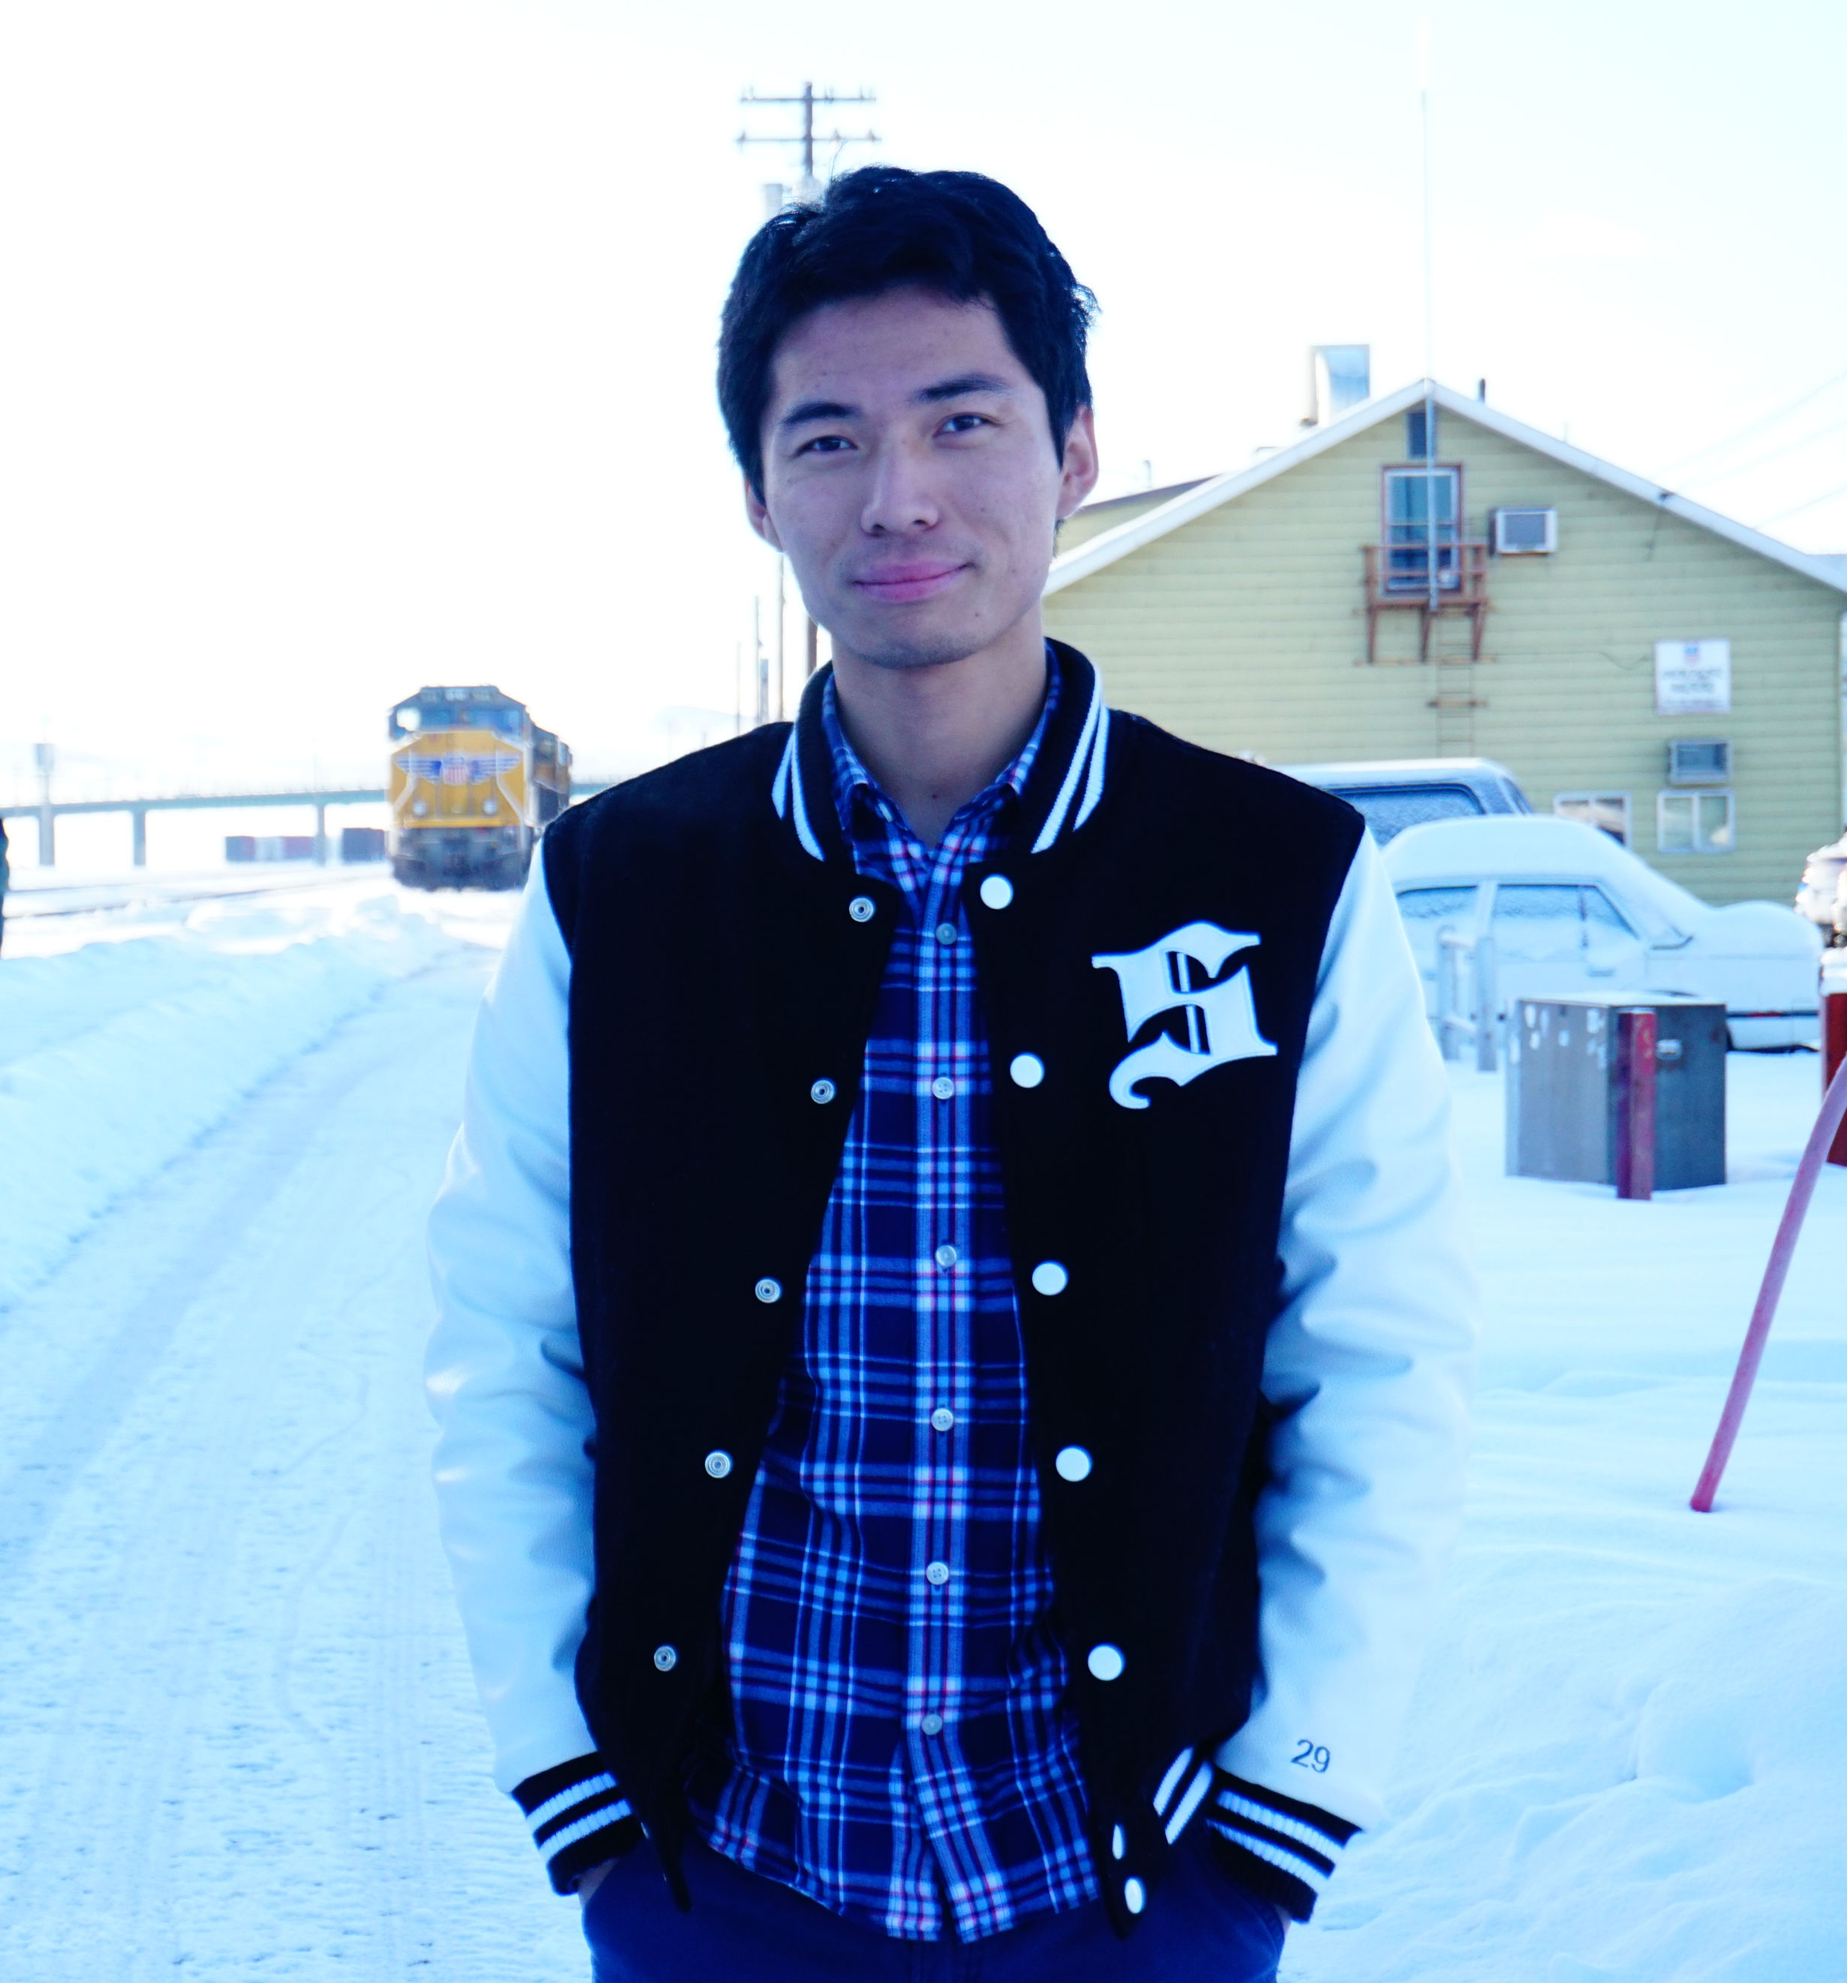
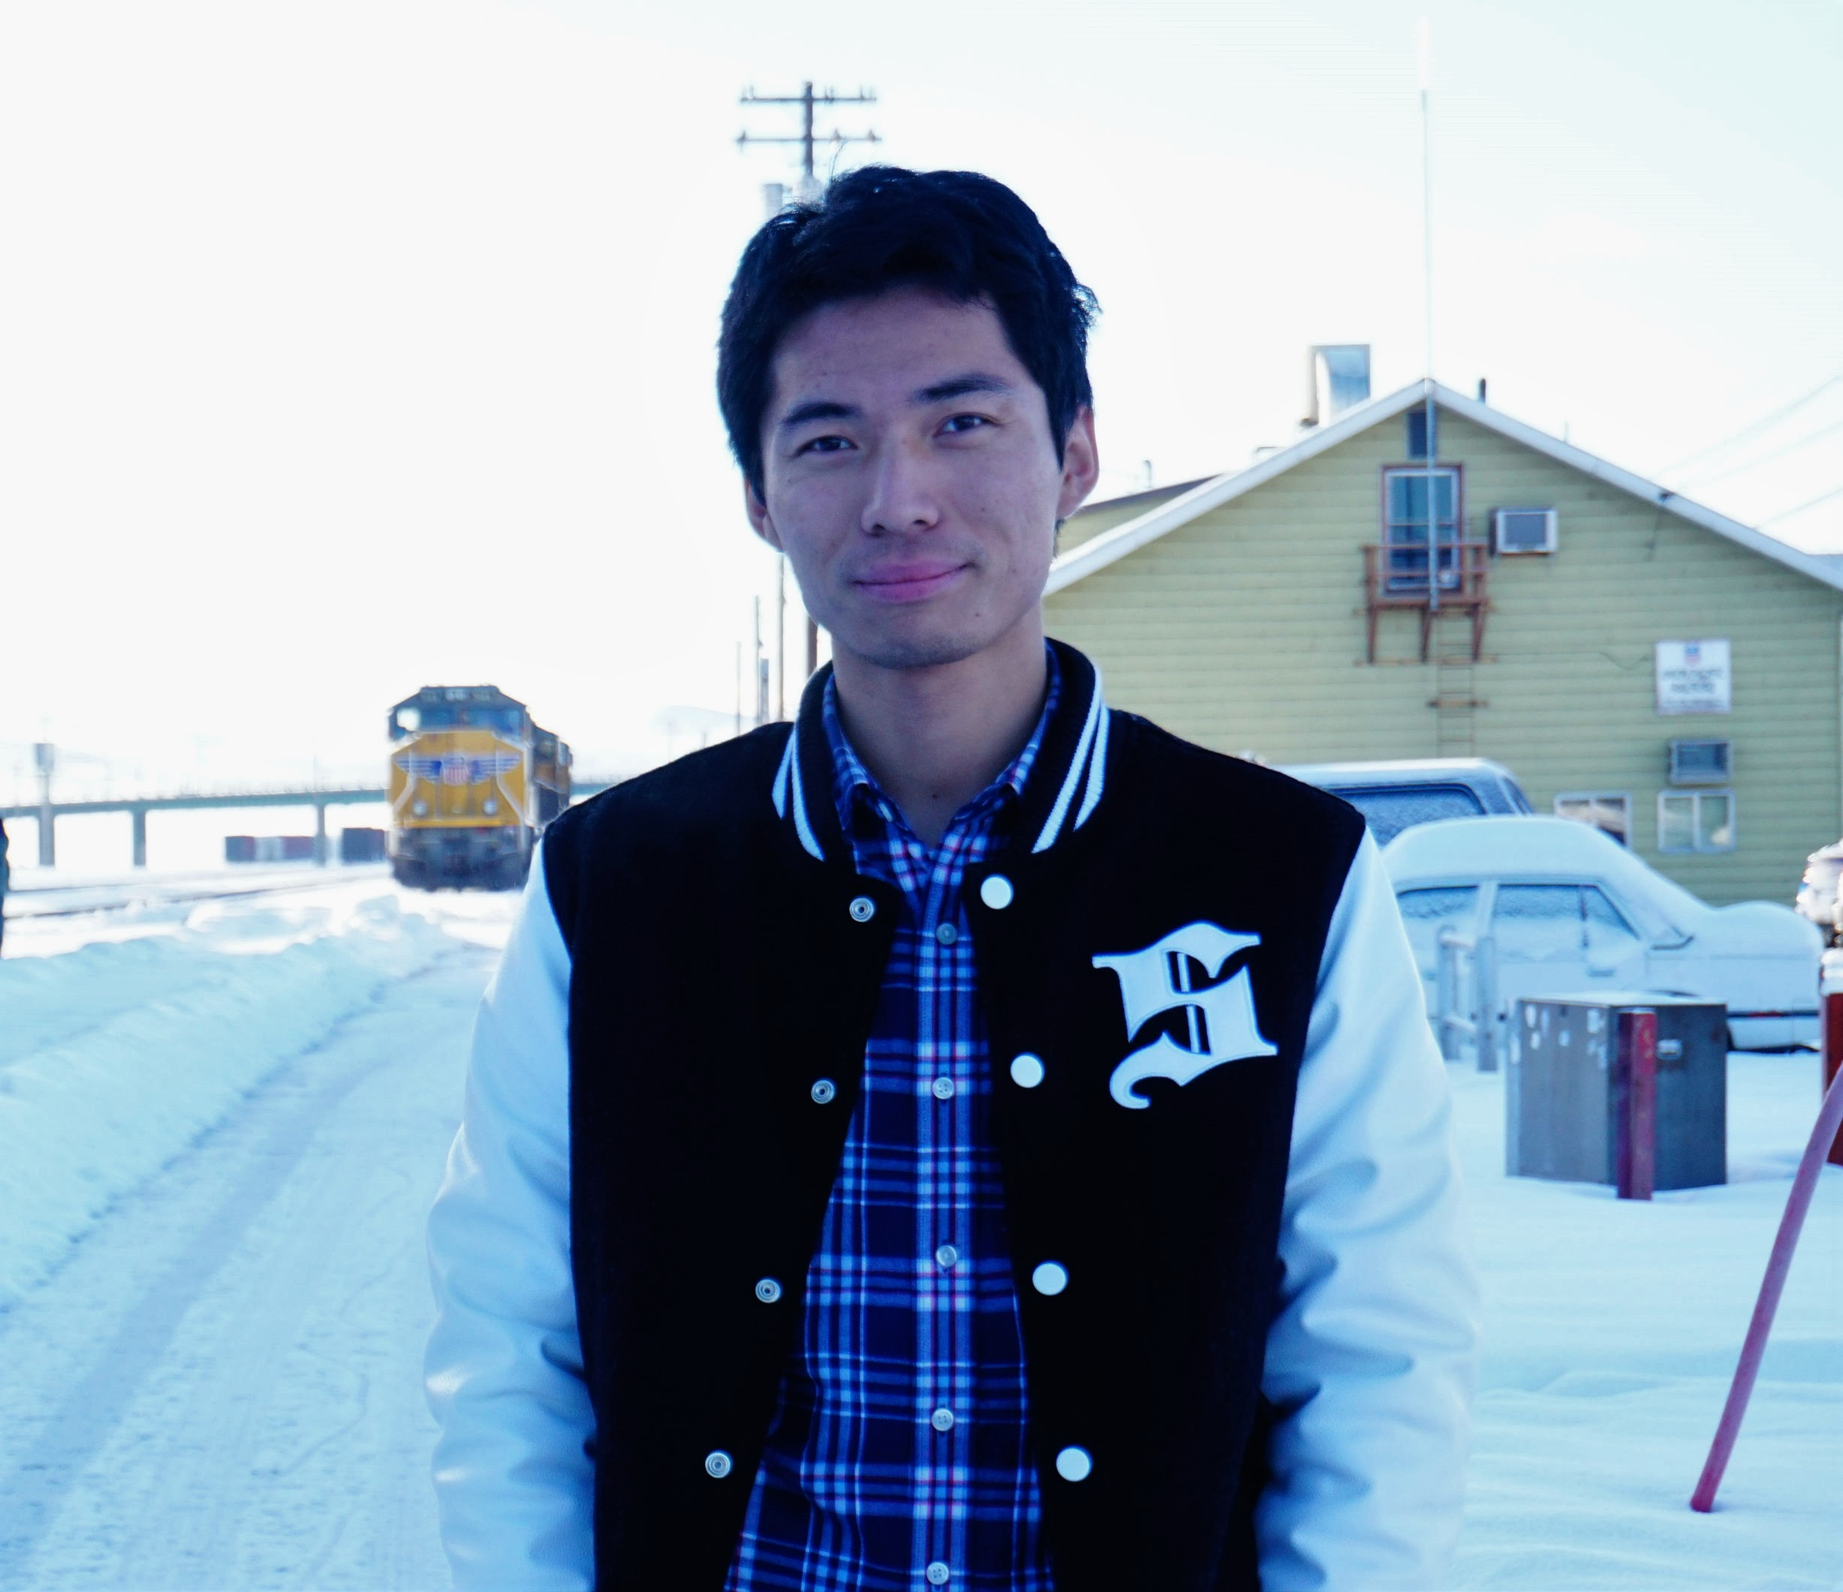
fixed a few pub list

diff --git a/pubs/index.html b/pubs/index.html
@@ -439,32 +439,32 @@
 </li>
 <li>
 <p>[J13]. <strong>Xiyuan Tang</strong>, Linxiao Shen, Begum Kasap, Xiangxing Yang, Wei Shi, Abhishek Mukherjee, David Z. Pan, and Nan Sun, 
-&ldquo;<a href="https://ieeexplore.ieee.org/document/8947992">An Energy-Efficient Comparator with Dynamic Floating Inverter Amplifier</a>,&rdquo; IEEE Journal of Solid-State Circuits, accepted (VLSI invited submission).</p>
+&ldquo;<a href="https://ieeexplore.ieee.org/document/8947992">An Energy-Efficient Comparator with Dynamic Floating Inverter Amplifier</a>,&rdquo; IEEE Journal of Solid-State Circuits, vol. 55, no. 4, pp. 1011-1022, Apr. 2020 (VLSI invited submission).</p>
 </li>
 <li>
 <p>[J12]. Yi Shen, <strong>Xiyuan Tang</strong>*, Linxiao Shen, Wenda Zhao, Zhangming Zhu, Xin Xin, Shubin Liu, Visvesh Sathe and Nan Sun,
 &ldquo;<a href="https://ieeexplore.ieee.org/document/8876653/">A 10b 120MS/s SAR ADC with Reference Ripple Cancellation Technique</a>,&rdquo;
-IEEE Journal of Solid-State Circuits, accepted (CICC invited submission; *Corresponding author).</p>
+IEEE Journal of Solid-State Circuits, vol. 55, no. 3, pp. 680-692, Mar. 2020 (CICC invited submission; *Corresponding author).</p>
 </li>
 <li>
 <p>[J11]. Wenda Zhao, Shaolan Li, Biying Xu, Xiangxing Yang, <strong>Xiyuan Tang</strong>, Linxiao Shen, Nanshu Lu, David Z. Pan, and Nan Sun,
 &ldquo;<a href="https://ieeexplore.ieee.org/abstract/document/8945232">A 0.025-mm2 0.8-V 78.5dB-SNDR VCO-Based Sensor Readout Circuit in a Hybrid PLL-ΔΣM Structure</a>,&rdquo;
-IEEE Journal of Solid-State Circuits, accepted (CICC invited submission).</p>
+IEEE Journal of Solid-State Circuits, vol. 55, no. 3, pp. 666-679, Mar. 2020 (CICC invited submission).</p>
 </li>
 <li>
 <p>[J10]. Yanlong Zhang, Arindam Sanyal, Xueyi Yu, Xing Quan, Kailin Wen, <strong>Xiyuan Tang</strong>, Gang Jin, Li Geng, and Nan Sun,
 &ldquo;<a href="https://ieeexplore.ieee.org/abstract/document/8896938/">A Fractional-N PLL With Space-Time Averaging for Quantization Noise Reduction</a>,&rdquo;
-IEEE Journal of Solid-State Circuits, accepted (CICC invited submission).</p>
+IEEE Journal of Solid-State Circuits, vol. 55, no. 3, pp. 602-614, Mar. 2020 (CICC invited submission).</p>
 </li>
 <li>
 <p>[J9]. Yi Zhong, Shaolan Li, <strong>Xiyuan Tang</strong>, Linxiao Shen, Wenda Zhao, Siliang Wu, and Nan Sun,
 &ldquo;<a href="https://ieeexplore.ieee.org/abstract/document/8889451/">Second-Order Purely VCO-Based CT ADC Using a Modified DPLL Structure in 40-nm CMOS</a>,&rdquo;
-IEEE Journal of Solid-State Circuits, accepted.</p>
+IEEE Journal of Solid-State Circuits, vol. 55, no. 2, pp. 356-368, Feb. 2020.</p>
 </li>
 <li>
 <p>[J8]. Linxiao Shen, Yi Shen, Zhelu Li, Wei Shi, <strong>Xiyuan Tang</strong>, Shaolan Li, Wenda Zhao, Mantian Zhang, Zhangming Zhu, and Nan Sun,
 &ldquo;<a href="https://ieeexplore.ieee.org/abstract/document/8817941/">A Two-Step ADC with a Continuous-Time SAR Based First Stage</a>,&rdquo;
-IEEE Journal of Solid-State Circuits, accepted (ISSCC invited submission).</p>
+IEEE Journal of Solid-State Circuits, vol. 54, no. 12, pp. 3375-3385, Dec. 2019 (ISSCC invited submission).</p>
 </li>
 <li>
 <p>[J7]. Abhishek Mukherjee, Miguel Gandara, Biying Xu, Shaolan Li, Linxiao Shen, <strong>Xiyuan Tang</strong>, David Z. Pan, and Nan Sun,
@@ -571,12 +571,12 @@ IEEE Transactions on Circuits and Systems – II: Express Briefs, vol.PP, No.99,
 <li>
 <p>[C30]. <strong>Xiyuan Tang</strong>, Yi Shen, Xin Xin, Shubin Liu, Jueping Cai, Zhangming Zhu, and Nan Sun, 
 &ldquo;A 10-bit 100-MS/s SAR ADC with Always-on Reference Ripple Cancellation,&rdquo; 
-IEEE Symposium on VLSI Circuits (VLSI), Jun. 2020, accepted.</p>
+IEEE Symposium on VLSI Circuits (VLSI), June 2020, accepted.</p>
 </li>
 <li>
 <p>[C29]. <strong>Xiyuan Tang</strong>, Xiangxing Yang, Wenda Zhao, Chen-Kai Hsu, Jiaxin Liu, Linxiao Shen, Abhishek Mukherjee, Wei Shi, David Z. Pan, and Nan Sun, 
 &ldquo;<a href="https://ieeexplore.ieee.org/abstract/document/9063058">A 13.5b-ENOB Second-Order Noise-Shaping SAR with PVT-Robust Closed-Loop Dynamic Amplifier</a>,&rdquo; 
-IEEE International Solid-State Circuits Conference (ISSCC), Feb. 2020, accepted.</p>
+IEEE International Solid-State Circuits Conference (ISSCC), pp. 162-164, Feb. 2020 (ISSCC Highlight).</p>
 </li>
 <li>
 <p>[C28]. <strong>Xiyuan Tang</strong>, Begum Kasap, Linxiao Shen, Xiangxing Yang, Wei Shi, and Nan Sun,
@@ -606,32 +606,32 @@ IEEE European Solid-State Circuits Conference (ESSCIRC), pp. 413-416, Sept. 2016
 <li>
 <p>[C23]. Yuxuan Huang, Qinghang Zhao, <strong>Xiyuan Tang</strong>, Fang Su, Nan Sun, Huazhong Yang, and Yongpan Liu, 
 &ldquo;An Energy-Efficient Flexible Capacitive Pressure Sensing System,&rdquo; 
-IEEE International Symposium on Circuits and Systems (ISCAS), May 2020, accepted.</p>
+IEEE International Symposium on Circuits and Systems (ISCAS), May 2020.</p>
 </li>
 <li>
 <p>[C22]. Zhelu Li, Arnab Dutta, Abhishek Mukherjee, <strong>Xiyuan Tang</strong>, Linxiao Shen, Lenian He, and Nan Sun,
 &ldquo;A SAR ADC with Reduced kT/C Noise by Decoupling Noise PSD and BW,&rdquo;
-IEEE Symposium on VLSI Circuits (VLSI), Jun. 2020, accepted.</p>
+IEEE Symposium on VLSI Circuits (VLSI), June 2020.</p>
 </li>
 <li>
 <p>[C21]. Mingjie Liu, Keren Zhu, <strong>Xiyuan Tang</strong>, Biying Xu, Wei Shi, Nan Sun and David Z. Pan, 
 “Closing the Design Loop: Bayesian Optimization Assisted Hierarchical Analog Layout Synthesis,” 
-ACM/IEEE Design Automation Conference (DAC), San Francisco, CA, July 19-23, 2020, accepted.</p>
+ACM/IEEE Design Automation Conference (DAC), San Francisco, CA, July 19-23, 2020.</p>
 </li>
 <li>
 <p>[C20]. Chen-Kai Hsu, <strong>Xiyuan Tang</strong>, Wenda Zhao, Rui Xu, Abhishek Mukherjee, Timothy Andeen, and Nan Sun,
 &ldquo;A 77.1-dB 6.25-MHz-BW Pipeline SAR ADC with Enhanced Interstage Gain Error Shaping and Quantization Error Shaping,&rdquo;
-IEEE Custom Integrated Circuits Conference (CICC), Mar. 2020, accepted.</p>
+IEEE Custom Integrated Circuits Conference (CICC), Mar. 2020.</p>
 </li>
 <li>
 <p>[C19]. Jiaxin Liu, <strong>Xiyuan Tang</strong>, Wenda Zhao, Linxiao Shen, and Nan Sun,
-&ldquo;A 13-bit 0.005mm2 40MS/s SAR ADC with kT/C Noise Cancellation,&rdquo;
-IEEE International Solid-State Circuits Conference (ISSCC), Feb. 2020, accepted.</p>
+&ldquo;<a href="https://ieeexplore.ieee.org/abstract/document/9063156/">A 13-bit 0.005mm2 40MS/s SAR ADC with kT/C Noise Cancellation</a>,&rdquo;
+IEEE International Solid-State Circuits Conference (ISSCC), pp. 258-260, Feb. 2020.</p>
 </li>
 <li>
 <p>[C18]. Jiaxin Liu, Xing Wang, Zijie Gao, Mingtao Zhan, <strong>Xiyuan Tang</strong>, and Nan Sun,
 &ldquo;<a href="https://ieeexplore.ieee.org/document/9063159">A 40kHz-BW 90dB-SNDR Noise-Shaping SAR with 4× Passive Gain and 2nd-order Mismatch Error Shaping</a>,&rdquo;
-IEEE International Solid-State Circuits Conference (ISSCC), Feb. 2020, accepted.</p>
+IEEE International Solid-State Circuits Conference (ISSCC), pp. 158-160, Feb. 2020.</p>
 </li>
 <li>
 <p>[C17]. Mingjie Liu, Keren Zhu, Jiaqi Gu, Linxiao Shen, <strong>Xiyuan Tang</strong>, Nan Sun, and David Z. Pan,
@@ -641,7 +641,7 @@ IEEE/ACM Design, Automation &amp; Test in Europe (DATE), 2020, accepted.</p>
 <li>
 <p>[C16]. Mingjie Liu, Wuxi Li, Keren Zhu, Biying Xu, Yibo Lin, Linxiao Shen, <strong>Xiyuan Tang</strong>, Nan Sun and David Z. Pan,
 &ldquo;<a href="https://ieeexplore.ieee.org/document/9045109">S3DET: Detecting System Symmetry Constraints for Analog Circuits with Graph Similarity</a>,&rdquo;
-IEEE/ACM Asian and South Pacific Design Automation Conference (ASP-DAC), Beijing, China, Jan. 13-16, 2020, accepted.</p>
+IEEE/ACM Asian and South Pacific Design Automation Conference (ASP-DAC), Beijing, China, Jan. 13-16, 2020.</p>
 </li>
 <li>
 <p>[C15]. Keren Zhu, Mingjie Liu, Yibo Lin, Biying Xu, Shaolan Li, <strong>Xiyuan Tang</strong>, Nan Sun and David Z. Pan,

diff --git a/authors/admin/index.html b/authors/admin/index.html
@@ -387,7 +387,7 @@
 
       
       
-      <img class="portrait" src="/authors/admin/avatar_hufc046632c8213a5df39c21aef926494b_582152_250x250_fill_q90_lanczos_center.jpg" alt="Avatar">
+      <img class="portrait" src="/authors/admin/avatar_hua00c4458c487e3fdfd5304ad33dab725_448910_250x250_fill_q90_lanczos_center.jpg" alt="Avatar">
       
 
       <div class="portrait-title">

diff --git a/index.html b/index.html
@@ -442,7 +442,7 @@
 
       
       
-      <img class="portrait" src="/authors/admin/avatar_hufc046632c8213a5df39c21aef926494b_582152_250x250_fill_q90_lanczos_center.jpg" alt="Avatar">
+      <img class="portrait" src="/authors/admin/avatar_hua00c4458c487e3fdfd5304ad33dab725_448910_250x250_fill_q90_lanczos_center.jpg" alt="Avatar">
       
 
       <div class="portrait-title">
